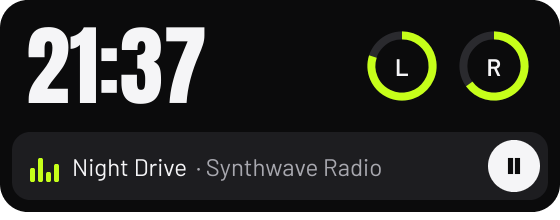
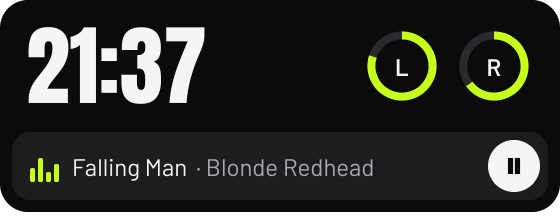
Screenshots: the watch plays Falling Man by Blonde Redhead

Changed region(s): [[0.3643, 0.7091, 0.6982, 0.8182], [0.1214, 0.7091, 0.3339, 0.8182]]

diff --git a/crates/app/src/gates_menu.rs b/crates/app/src/gates_menu.rs
@@ -618,8 +618,8 @@ mod tests {
         save("banner", wxr_ui::BANNER_SIZE, &px, wxr_ui::BANNER_SIZE.1);
         let mut wrist = Wrist::new().expect("wrist");
         let song = WristMedia {
-            title: "Night Drive".into(),
-            artist: "Synthwave Radio".into(),
+            title: "Falling Man".into(),
+            artist: "Blonde Redhead".into(),
             app: "Spotify".into(),
             playing: true,
             position: 72.0,
